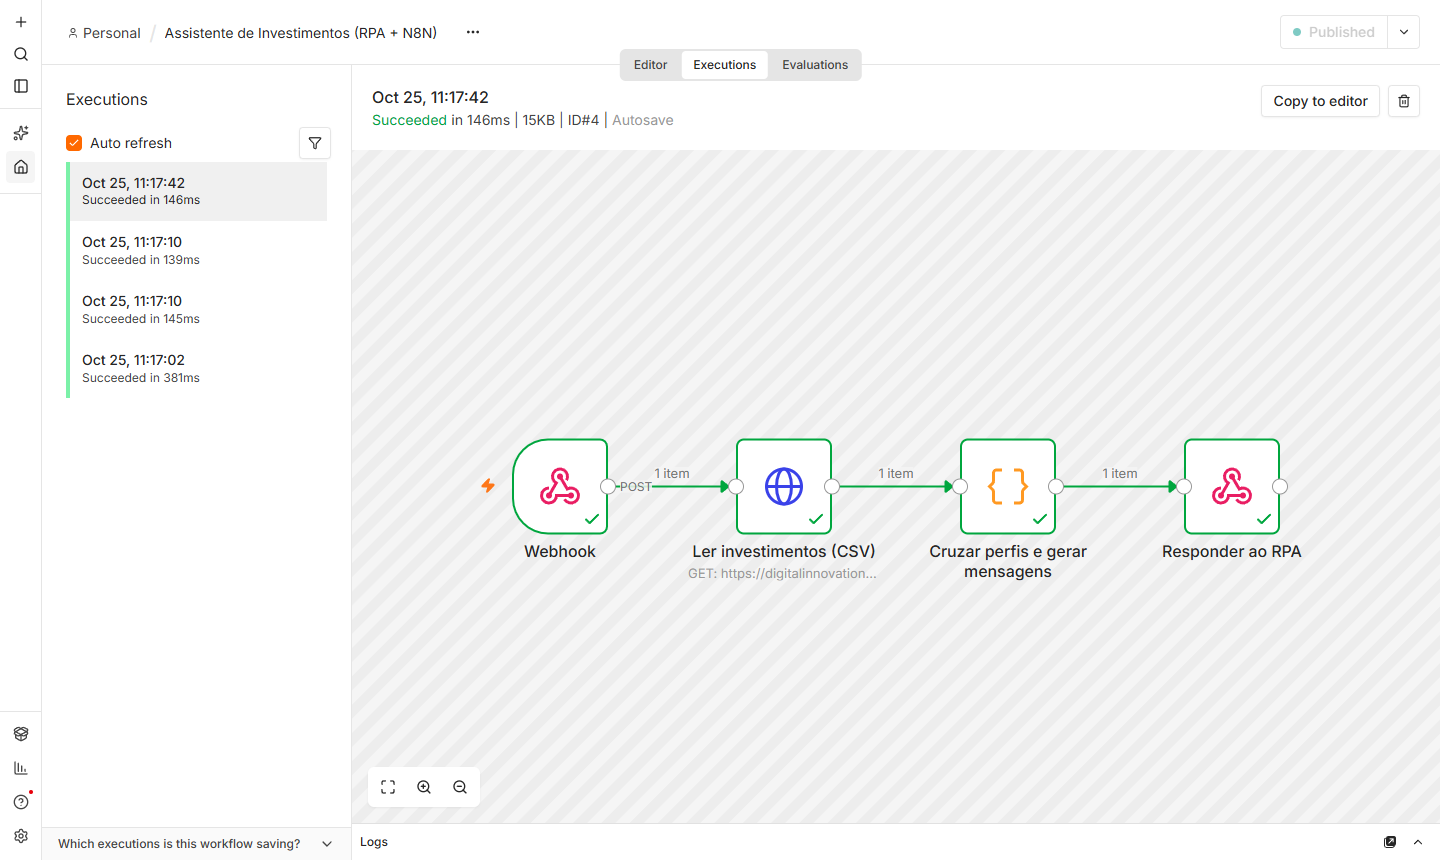
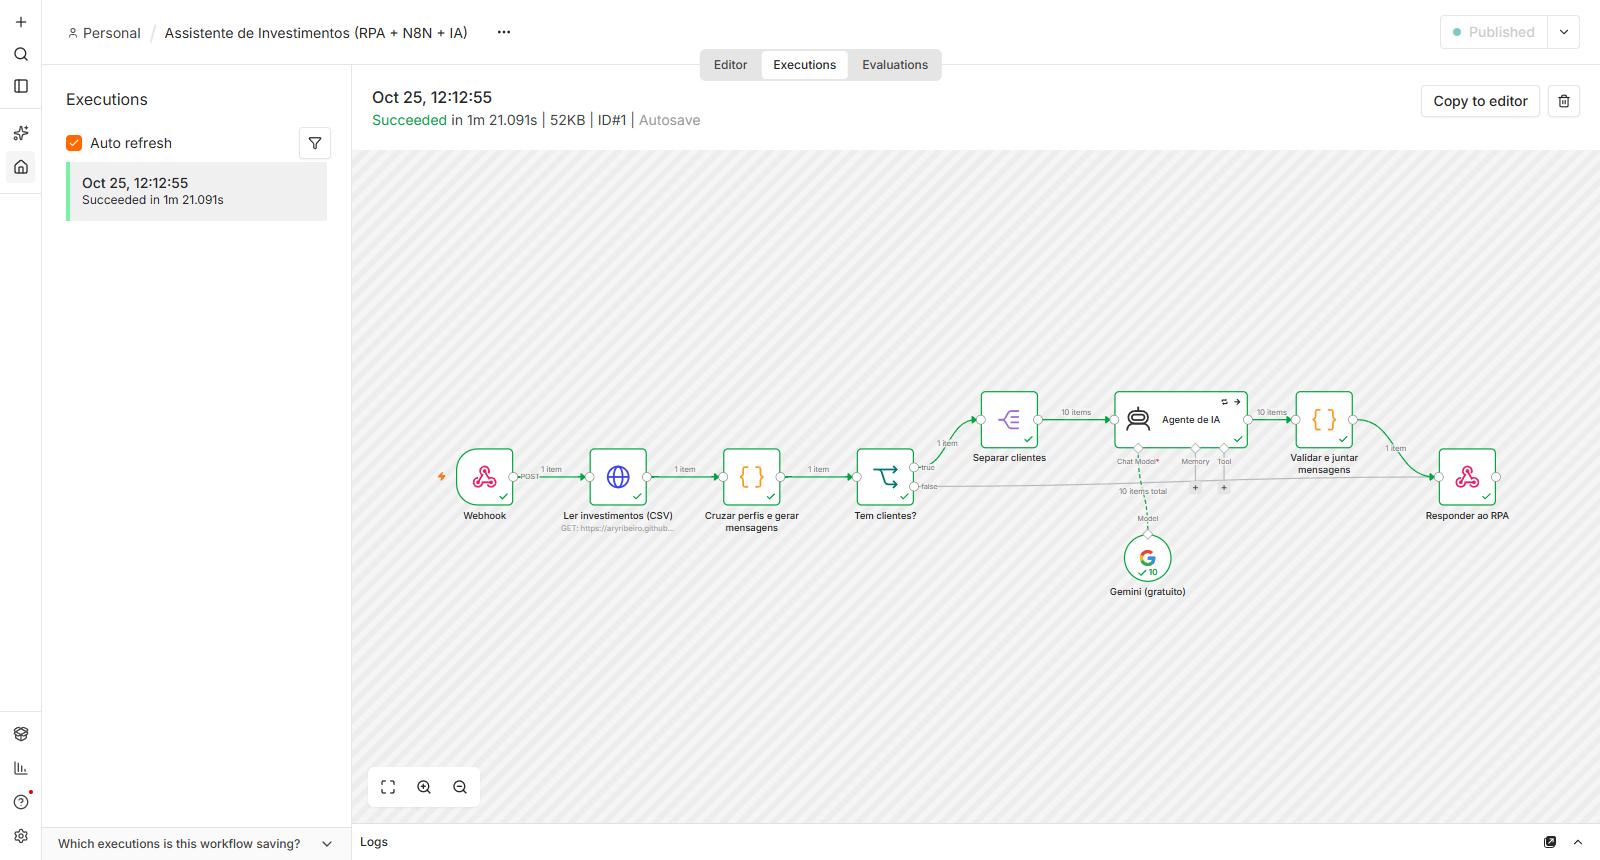
Adiciona Agente de IA (Gemini gratuito) e usa o GitHub Pages do fork
- n8n/workflow.json: Tem clientes? -> Separar clientes -> Agente de IA
  (gemini-3.5-flash-lite, um cliente a cada 7 s) -> Validar e juntar
  mensagens; a IA só reescreve os fatos da mensagem fixa
- conferência do texto da IA: produto fora da lista, número que não está
  nos fatos, promessa de retorno, resposta vazia ou erro voltam para a
  mensagem fixa, com o motivo registrado
- notebook e workflow leem a página e o CSV do GitHub Pages do fork;
  envio ao N8N com tempo-limite de 10 min e origem de cada mensagem
- evidências refeitas: 10 de 10 mensagens escritas pela IA
- README: como criar a chave gratuita, decisões técnicas, validação e
  entregáveis do desafio completo marcados

diff --git a/README.md b/README.md
@@ -1,23 +1,36 @@
 # Criando um Assistente de Investimentos com RPA e IA Generativa
 
-## ✅ Solução implementada (MVP)
+## ✅ Solução implementada (MVP + Agente de IA)
 
-O pipeline roda de ponta a ponta: o notebook extrai os 10 clientes da página, envia a lista ao Webhook do N8N e recebe de volta uma mensagem personalizada por cliente, cruzada com o CSV de investimentos.
+O pipeline roda de ponta a ponta: o notebook extrai os 10 clientes da [página no GitHub Pages](https://aryribeiro.github.io/dio-lab-assistente-investimentos-rpa-n8n/), envia a lista ao Webhook do N8N, que cruza cada cliente com o [CSV de investimentos](https://aryribeiro.github.io/dio-lab-assistente-investimentos-rpa-n8n/data.csv) e pede a um **Agente de IA (Google Gemini, plano gratuito)** uma mensagem personalizada por cliente.
 
 ![Execução do workflow no N8N](evidencias/n8n-execucao.png)
 
+```mermaid
+flowchart LR
+  W["Webhook"] --> C["Ler investimentos (CSV)"] --> X["Cruzar perfis e<br>gerar mensagens"] --> T{"Tem clientes?"}
+  T -- sim --> S["Separar clientes"] --> A["Agente de IA"] --> V["Validar e juntar<br>mensagens"] --> R["Responder ao RPA"]
+  G["Gemini (gratuito)"] -. modelo .-> A
+  T -- não --> R
+```
+
 | Peça | Arquivo | O que faz |
 |------|---------|-----------|
-| RPA | [`rpa/extrair_clientes.ipynb`](rpa/extrair_clientes.ipynb) | Lê a tabela `#clientes`, envia ao Webhook e mostra as mensagens. Sem Webhook configurado, roda em **modo simulado** com as mesmas regras do workflow |
-| Workflow | [`n8n/workflow.json`](n8n/workflow.json) | `Webhook` → `Ler investimentos (CSV)` → `Cruzar perfis e gerar mensagens` → `Responder ao RPA` |
-| Evidências | [`evidencias/`](evidencias/) | Execução bem-sucedida e saída do nó que gera as mensagens |
+| Dados | [`docs/`](docs/) | Página de clientes e CSV de investimentos, publicados pelo GitHub Pages do fork |
+| RPA | [`rpa/extrair_clientes.ipynb`](rpa/extrair_clientes.ipynb) | Lê a tabela `#clientes`, envia ao Webhook e mostra as mensagens. Sem Webhook configurado, roda em **modo simulado** com as mesmas regras do workflow (sem IA) |
+| Workflow | [`n8n/workflow.json`](n8n/workflow.json) | Cruza perfil e saldo com o CSV, pede o texto ao Agente de IA, confere o texto e responde ao RPA |
+| Evidências | [`evidencias/`](evidencias/) | Execução bem-sucedida e saída do workflow |
 
 ### Como executar
 
-1. No N8N, importe `n8n/workflow.json` (**Workflows → Import from File**).
-2. Copie a URL do nó **Webhook**: a de teste (`/webhook-test/clientes`) vale depois de clicar em *Execute workflow*; a de produção (`/webhook/clientes`), com o workflow publicado/ativo.
-3. Abra o notebook no Colab: [![Abrir no Colab](https://colab.research.google.com/assets/colab-badge.svg)](https://colab.research.google.com/github/aryribeiro/dio-lab-assistente-investimentos-rpa-n8n/blob/main/rpa/extrair_clientes.ipynb)
-4. Cole a URL em `N8N_WEBHOOK` (célula de configuração) e execute tudo. Com `N8N_WEBHOOK` vazio, o notebook gera as mensagens localmente (modo simulado).
+1. **Chave gratuita do Gemini:** crie em [Google AI Studio → Get API key](https://aistudio.google.com/apikey). **Não vincule conta de cobrança ao projeto**: com cobrança ativa, todo uso passa a ser pago, mesmo dentro dos limites gratuitos.
+2. No N8N, importe `n8n/workflow.json` (**Workflows → Import from File**).
+3. Abra o nó **Gemini (gratuito)**, crie a credencial *Google Gemini (PaLM) API* com a chave e selecione-a. A chave fica guardada no N8N; o `workflow.json` exportado leva só o nome da credencial.
+4. Copie a URL do nó **Webhook**: a de teste (`/webhook-test/clientes`) vale depois de clicar em *Execute workflow*; a de produção (`/webhook/clientes`), com o workflow publicado/ativo.
+5. Abra o notebook no Colab: [![Abrir no Colab](https://colab.research.google.com/assets/colab-badge.svg)](https://colab.research.google.com/github/aryribeiro/dio-lab-assistente-investimentos-rpa-n8n/blob/main/rpa/extrair_clientes.ipynb)
+6. Cole a URL em `N8N_WEBHOOK` (célula de configuração) e execute tudo. Com `N8N_WEBHOOK` vazio, o notebook gera as mensagens fixas localmente (modo simulado).
+
+> O agente atende **um cliente por vez, com 7 s de intervalo**, para caber no limite gratuito de requisições por minuto. Com 10 clientes, a resposta leva cerca de 2 minutos; o notebook espera até 10.
 
 Para testar o N8N localmente com Docker:
 
@@ -38,6 +51,7 @@ Saída (resposta do Webhook):
 ```json
 {
   "total": 1,
+  "geradas_por_ia": 1,
   "aviso": "Dados fictícios, para fins educacionais. Não é recomendação de investimento.",
   "mensagens": [
     {
@@ -45,13 +59,16 @@ Saída (resposta do Webhook):
       "status": "ok",
       "recomendados": ["Poupança", "CDB Liquidez Diária", "Tesouro Selic"],
       "fora_do_alcance": [],
-      "mensagem": "Olá, Ana! Como seu perfil é Conservador, priorizamos renda fixa, com foco em segurança e liquidez. Com o seu saldo de R$ 12.500,00, você já pode aplicar em: Poupança (6,2%, a partir de R$ 100,00), CDB Liquidez Diária (12,5%, a partir de R$ 1.000,00) e Tesouro Selic (13,0%, a partir de R$ 500,00). Conte com a gente para montar sua carteira!"
+      "origem": "ia",
+      "mensagem": "(texto escrito pelo Agente de IA a partir dos fatos da mensagem fixa)",
+      "mensagem_fixa": "Olá, Ana! Como seu perfil é Conservador, priorizamos renda fixa, com foco em segurança e liquidez. Com o seu saldo de R$ 12.500,00, você já pode aplicar em: Poupança (6,2%, a partir de R$ 100,00), CDB Liquidez Diária (12,5%, a partir de R$ 1.000,00) e Tesouro Selic (13,0%, a partir de R$ 500,00). Conte com a gente para montar sua carteira!"
     }
   ]
 }
 ```
 
-`status` pode ser `ok`, `sem_produto_no_saldo`, `perfil_invalido` ou `saldo_invalido`.
+- `status`: `ok`, `sem_produto_no_saldo`, `perfil_invalido` ou `saldo_invalido`.
+- `origem`: `ia` (texto do agente aprovado na conferência) ou `modelo_fixo` (a mensagem fixa, com o `motivo`: falha na chamada, texto vazio, produto fora da lista, promessa de retorno ou cadastro incompleto).
 
 ### Decisões técnicas
 
@@ -62,16 +79,21 @@ Saída (resposta do Webhook):
 - **Resposta síncrona** (nó *Respond to Webhook*): o próprio notebook mostra as mensagens, sem depender de outro canal.
 - **Extração robusta:** `timeout`, `raise_for_status()`, leitura das células pela classe (`td.nome`, `td.email`...) com a posição como reserva e erro claro se a tabela sumir.
 - **Modo simulado com as mesmas regras:** a lógica do nó Code foi portada para Python e as duas versões foram comparadas, campo a campo, com casos-limite (perfil inválido, saldo ilegível, saldo abaixo de todos os mínimos). As saídas são idênticas.
-- **Fonte dos dados:** o notebook e o workflow leem a página e o CSV publicados pela DIO no GitHub Pages, que já estão no ar; para usar os do fork, ative o GitHub Pages na pasta `docs/` e troque as duas URLs.
+- **A IA escreve, mas não decide.** O cruzamento continua em código; o agente recebe como FATOS a mensagem fixa (produtos que cabem no saldo, mínimos, rentabilidades e quanto falta) e só reescreve o texto, com instrução de não citar outro produto, taxa ou número nem prometer retorno.
+- **Texto da IA passa por conferência antes de sair.** O nó *Validar e juntar mensagens* rejeita resposta vazia ou longa demais, citação de produto que não é do cliente e promessas ("garantido", "sem risco"). Rejeitado, o cliente recebe a mensagem fixa e o `motivo` fica registrado.
+- **A IA nunca derruba o fluxo.** O agente tenta até 3 vezes e, se falhar, segue adiante (*On Error: continue*); cadastro incompleto não usa IA. Sem chave ou sem cota, todos recebem a mensagem fixa.
+- **Plano gratuito do Gemini:** um cliente por chamada, com 7 s entre chamadas (*Batch Processing* do agente).
+- **Fonte dos dados:** a página e o CSV vêm do GitHub Pages do próprio fork (pasta `docs/`): qualquer mudança em `docs/` vai ao ar com o push.
 
 ### Como foi validado
 
-- Workflow importado e publicado num N8N 2.44.6 (Docker); `POST` com 9 clientes de teste devolveu HTTP 200 e uma saída idêntica à execução local do mesmo código. Payload vazio ou malformado devolve `total: 0`, sem erro.
-- Notebook executado do início ao fim nos dois modos: contra o N8N (saídas gravadas no próprio notebook) e simulado.
+- Workflow importado e publicado num N8N 2.44.6 (Docker) com o modelo `gemini-3.5-flash-lite` (plano gratuito). Notebook executado do início ao fim contra ele: **10 clientes extraídos do GitHub Pages, 10 mensagens escritas pela IA e aprovadas na conferência**, em cerca de 1 min 20 s (saídas gravadas no próprio notebook).
+- Casos-limite no N8N: 9 clientes de teste (perfil inválido, saldo ilegível, saldo abaixo de todos os mínimos, saldo milionário) devolveram HTTP 200; os cadastros inválidos ficaram com a mensagem fixa sem chamar a IA. Payload vazio ou malformado devolve `total: 0`, sem erro.
+- Sem IA disponível (chave inválida), todos os clientes recebem a mensagem fixa com `motivo: falha na chamada à IA`, e essa mensagem é idêntica à do modo simulado do notebook.
+- A conferência foi testada com respostas simuladas da IA: produto de outro perfil, promessa de retorno, número inventado, resposta vazia e erro caem na mensagem fixa; textos corretos passam.
+- O modelo foi escolhido testando a chave: `gemini-2.5-flash` e `gemini-2.5-flash-lite` já não estão disponíveis para chaves novas.
 
-![Saída do nó que gera as mensagens](evidencias/n8n-saida-mensagens.png)
-
-**Próximo passo (desafio completo):** trocar o modelo fixo de mensagem por um Agente de IA no N8N, mantendo o filtro de saldo mínimo antes do LLM.
+![Saída do nó que confere e junta as mensagens da IA](evidencias/n8n-saida-mensagens.png)
 
 ---
 
@@ -207,8 +229,8 @@ Conecte o Agente de IA do N8N a um modelo como Gemini ou GPT para:
 ### Desafio Completo
 
 - [x] Todos os itens do MVP
-- [ ] Integração com Agente de IA no N8N
-- [ ] Mensagens geradas dinamicamente via LLM
+- [x] Integração com Agente de IA no N8N
+- [x] Mensagens geradas dinamicamente via LLM
 - [x] Documentação explicando as decisões técnicas
 
 ## Estrutura do Repositório
@@ -221,8 +243,8 @@ Conecte o Agente de IA do N8N a um modelo como Gemini ou GPT para:
 ├── 📁 n8n/
 │   └── 📄 workflow.json            # ✅ Workflow exportado (Webhook → CSV → cruzamento → resposta)
 ├── 📁 evidencias/
-│   ├── 🖼 n8n-execucao.png         # ✅ Execuções bem-sucedidas no N8N
-│   └── 🖼 n8n-saida-mensagens.png  # ✅ Saída do nó que gera as mensagens
+│   ├── 🖼 n8n-execucao.png         # ✅ Execução com o Agente de IA (10 clientes)
+│   └── 🖼 n8n-saida-mensagens.png  # ✅ Saída conferida: 10 de 10 escritas pela IA
 └── 📁 docs/
     ├── 📄 index.html               # ✅ Página de clientes (já implementado)
     └── 📄 data.csv                 # ✅ Opções de investimento (já implementado)
@@ -244,7 +266,3 @@ Conecte o Agente de IA do N8N a um modelo como Gemini ou GPT para:
 - [GitHub Pages: Guia Rápido](https://pages.github.com/)
 
 ---
-
-**Bons estudos e mãos à obra** 🚀
-
-Se tiver dúvidas, lembre-se: a melhor forma de aprender é experimentando. Erre, corrija e celebre cada pequena vitória no caminho.
